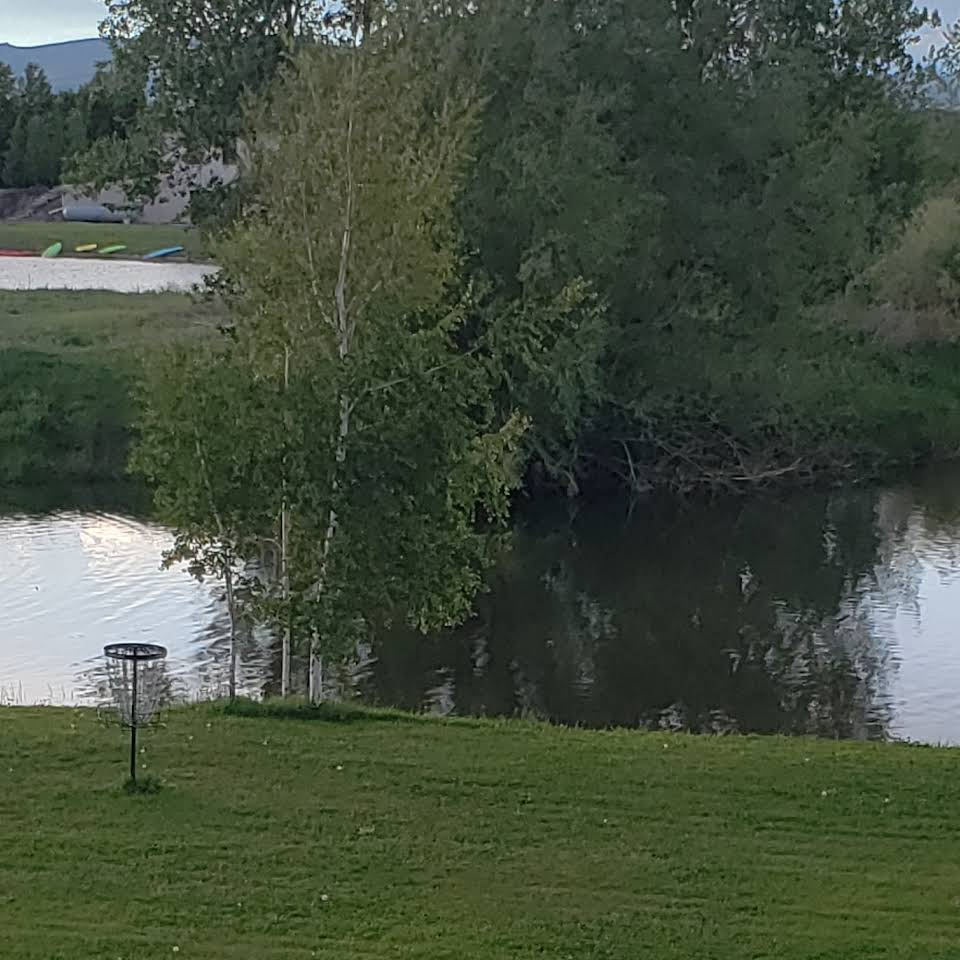
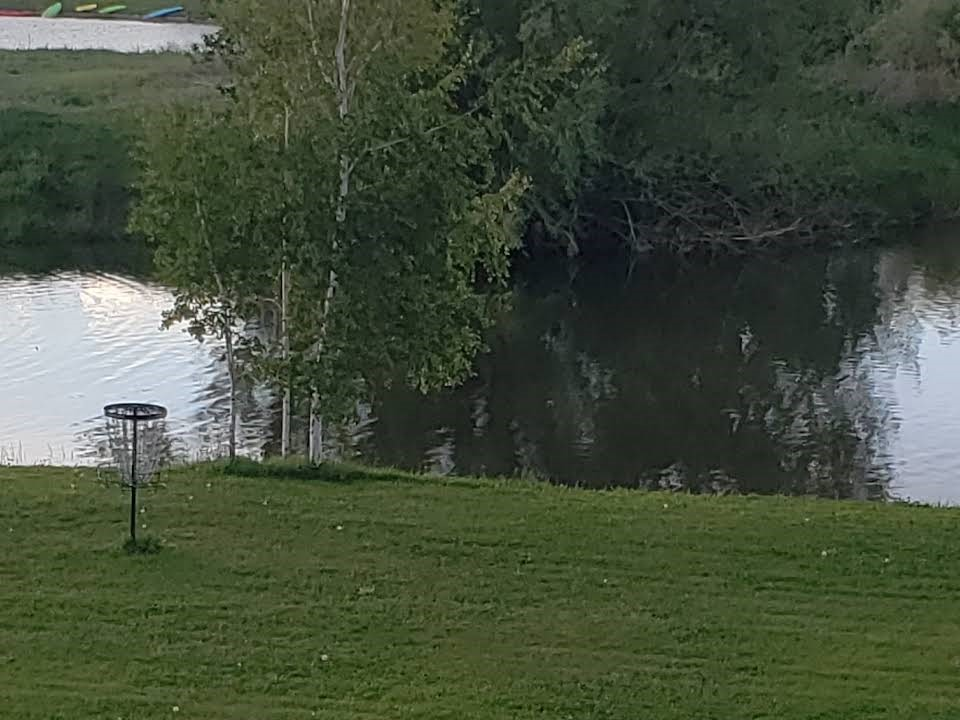
fixed pic ratio, css for courses

diff --git a/discgolf/courses.html b/discgolf/courses.html
@@ -30,7 +30,8 @@
         </div>
     </header>
     <h1 class="factsHeader">Here are Disc Golf Courses Near You!</h1>
-    <div class="course-grid">
+    <p class="factsHeader">Click on a picture to go to google maps.</p>
+    <div class="bodyContent">
         <div class="course-card">
             <a href="https://www.google.com/maps/place/4781+N+495+W,+Rexburg,+ID+83440/@43.8948959,-111.793421,17z/data=!3m1!4b1!4m6!3m5!1s0x5354082ad2e03d05:0x96c05e59b4ff0239!8m2!3d43.894896!4d-111.7885501!16s%2Fg%2F11dznnk9wd?entry=ttu" target="_blank">
                 <img src="images/Apsen Acres pic.jpg" alt="Aspen Acres Disc Golf Park">
@@ -65,7 +66,7 @@
             <a href="https://www.google.com/maps/place/Tenderfoot+mountain+bike+trail/@43.835774,-111.7993195,17z/data=!3m1!4b1!4m6!3m5!1s0x53540b7a66217ee1:0x1251bae1f2d4b6df!8m2!3d43.835774!4d-111.7967446!16s%2Fg%2F11flv814vj?entry=ttu" target="_blank">
                 <img src="images/Eagle pic.jpg" alt="Eagle Disc Golf Park">
             </a>
-            <h2>Eagle Disc Golf Park"></h2>
+            <h2>Eagle Disc Golf Park</h2>
             <p>Address: Tenderfoot mountain bike trail, Rexburg, ID 83440</p>
             <p>This course is right next to Nature park, and together they make a full 18 hole course.</p>
         </div>

diff --git a/discgolf/styles/styles.css b/discgolf/styles/styles.css
@@ -23,7 +23,7 @@ body {
     align-items: center;
     background-color: #004E64;
 }
-footer h3{
+footer h3, header h1, header .headerLinks{
     margin-left: 100px;
     margin-right: 100px;
 }
@@ -122,7 +122,7 @@ p a:hover{
     text-align: center;
     width: 400px;
 }
-.tips{
+.tips, .course-card{
     margin: 1rem;
     padding: 1rem;
     text-align: center;
@@ -133,7 +133,7 @@ p a:hover{
     justify-self: center;
     box-shadow: 5px 5px 10px black;
 }
-.tips img {
+.tips img , .course-card img{
     max-width: 70%;
     border-radius: 30px;
     box-shadow: 5px 5px 10px black;
@@ -154,6 +154,16 @@ p a:hover{
     width: 30%;
     border-radius: 30px;
     box-shadow: 5px 5px 10px black;
+}
+
+.course-card img{
+    transition: transform .5s;
+    margin: .7rem;
+}
+
+.course-card img:hover{
+    opacity: .9;
+    transform: scale(1.1);
 }
 
 
